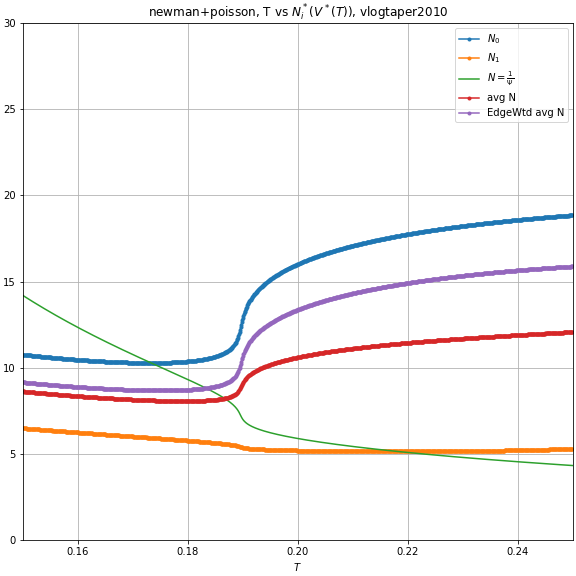
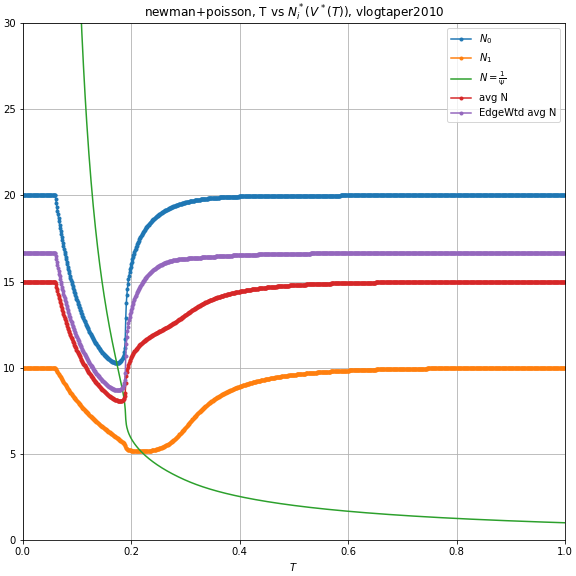
More graphs and fixed graphs

diff --git a/contagion/graph_newman_poisson.py b/contagion/graph_newman_poisson.py
@@ -80,13 +80,18 @@ def plot_Ψiteration_differencetest(Ai_list,utilfunc_list):
 
 #%% Plot T vs equilibrium V, along with prevalences?
 
-def plot_equilibriumvsT(Ai_list,utilfunc_list,speciallabel):
+def plot_equilibriumvsT(Ai_list,utilfunc_list,speciallabel, zoomparams=None):
     '''Iterate through T, find an equilibrium edge risk at each point. 
     Plug that in to get choices and prevalences. Plot  two graphs.'''
-    #unit_grid = np.arange(0.15,0.155,0.00001)
-    unit_grid = np.arange(0.15,0.25,0.0001)
+    #zoomparems are of the form (minx,maxx,step)
+    local_grid = unit_grid
+    if zoomparams:
+        local_grid = np.arange(zoomparams[0],zoomparams[1],zoomparams[2])
+        xlimits=[zoomparams[0],zoomparams[1]]
+    else:
+        xlimits=[0,1]
     #Calculate the gridpoints: eqlb edge risk, eqlb connections, eqlb r_infty
-    equilV_grid = [nnp.approx_equilibriumV(T, Ai_list, utilfunc_list) for T in unit_grid]
+    equilV_grid = [nnp.approx_equilibriumV(T, Ai_list, utilfunc_list) for T in local_grid]
     equilΨ_grid = [1-V for V in equilV_grid]
     Ni_grids = [[nnp.approx_bestNi(V,utilfunc) for V in equilV_grid] for utilfunc in utilfunc_list]
     #averages 
@@ -100,15 +105,15 @@ def plot_equilibriumvsT(Ai_list,utilfunc_list,speciallabel):
     # First plot a graph of risk and prevalence.
     fig,ax = plt.subplots(figsize=(8,8),constrained_layout=True)
     
-    ax.plot(unit_grid,unit_grid,c='black',linestyle='dotted')#45degree line
+    ax.plot(local_grid,local_grid,c='black',linestyle='dotted')#45degree line
     for i,Ri_grid in enumerate(Rinfty_grids):
-        ax.plot(unit_grid, Ri_grid, label=r'$p(N_'+str(i)+r')$', marker='.')
-    ax.plot(unit_grid, equilΨ_grid, label=r'$Ψ_{eq}$', marker='.')
-    ax.plot(unit_grid, weightedR_grid, label=r'$R_{\infty}$', marker='.')
-    ax.plot(unit_grid, edgesharetype0_grid, label='$edgshr_{0}$', marker='.')
+        ax.plot(local_grid, Ri_grid, label=r'$p(N_'+str(i)+r')$', marker='.')
+    ax.plot(local_grid, equilΨ_grid, label=r'$Ψ_{eq}$', marker='.')
+    ax.plot(local_grid, weightedR_grid, label=r'$R_{\infty}$', marker='.')
+    ax.plot(local_grid, edgesharetype0_grid, label='$edgshr_{0}$', marker='.')
     
     ax.set_ylim([0,1])
-    ax.set_xlim([0,1])
+    ax.set_xlim(xlimits)
     ax.legend(loc='lower right')
     ax.grid()
     labelSubplot(ax, 'newman+poisson, T vs equilibrium prevalence, '+speciallabel, '$T$', '')
@@ -118,32 +123,35 @@ def plot_equilibriumvsT(Ai_list,utilfunc_list,speciallabel):
     #Then plot a graph of choices.
     fig,ax = plt.subplots(figsize=(8,8),constrained_layout=True)
     
-    
     for i,Ni_grid in enumerate(Ni_grids):
-        ax.plot(unit_grid, Ni_grid, label='$N_'+str(i)+'$', marker='.')    
-    plt.plot(unit_grid,[1/Ψ for Ψ in equilΨ_grid], label=r'$N=\frac{1}{\Psi}$')
-    ax.plot(unit_grid, weightedN_grid, label='avg N', marker='.')   
-    ax.plot(unit_grid, edgeweightedN_grid, label='EdgeWtd avg N', marker='.')   
-    #plt.plot([0.153,0.153],[0,30])
+        ax.plot(local_grid, Ni_grid, label='$N_'+str(i)+'$', marker='.')    
+    plt.plot(local_grid,[1/Ψ for Ψ in equilΨ_grid], label=r'$N=\frac{1}{\Psi}$')
+    ax.plot(local_grid, weightedN_grid, label='avg N', marker='.')   
+    ax.plot(local_grid, edgeweightedN_grid, label='EdgeWtd avg N', marker='.')   
     
     ax.set_ylim([0,30])
-    ax.set_xlim([0,1])
+    ax.set_xlim(xlimits)
     ax.legend(loc='upper right')
     ax.grid()
     labelSubplot(ax, r'newman+poisson, T vs $N_i^*(V^*(T))$, '+speciallabel, '$T$', '')
     plt.savefig('graph_newman_poisson_equilibriumchoices_'+speciallabel+'.png')
     
 
+#u_Nlogtaper_20 = lambda N: nnp.u_Nlogtaper(N, 20, 0.5)
+#plot_equilibriumvsT([0.5,0.5],[u_Nlogtaper_20,nnp.u_Nlogtaper_L],'vlogtaper2010')    
+#plot_equilibriumvsT([0.5,0.5],[u_Nlogtaper_20,nnp.u_Nlogtaper_L],'vlogtaper2010zoom',(0.16,0.21,0.0001))  
 
-plot_equilibriumvsT([0.5,0.5],[nnp.u_Nlogtaper_H,nnp.u_Nlogtaper_L],'vlogtaper2010')    
-#plot_equilibriumvsT([0.5,0.5],[nnp.u_Nlogtaper_H,nnp.u_Nlogtaper_L],'vlogtaper2010zoom')  
+plot_equilibriumvsT([0.5,0.5],[nnp.u_Nlogtaper_H,nnp.u_Nlogtaper_L],'vlogtaper2510')    
+plot_equilibriumvsT([0.5,0.5],[nnp.u_Nlogtaper_H,nnp.u_Nlogtaper_L],'vlogtaper2510zoom',(0.14,0.16,0.0001))    
 
-#plot_equilibriumvsT([0.5,0.5],[nnp.u_Nlogtaper_H,nnp.u_Nlogtaper_L],'vlogtaper2510')    
-#plot_equilibriumvsT([0.5,0.5],[nnp.u_Nlogtaper_H,nnp.u_Nlogtaper_L],'vlogtaper2510zoom')    
-
-
-
+#u_Nlogtaper_30 = lambda N: nnp.u_Nlogtaper(N, 30, 0.5)
+#plot_equilibriumvsT([0.5,0.5],[u_Nlogtaper_30,nnp.u_Nlogtaper_L],'vlogtaper3010')    
+#plot_equilibriumvsT([0.5,0.5],[u_Nlogtaper_30,nnp.u_Nlogtaper_L],'vlogtaper3010zoom',(0.125,0.13,0.00001)) 
 
 
+
+#plot_equilibriumvsT([0.1,0.9],[nnp.u_Nlogtaper_H,nnp.u_Nlogtaper_L],'vlogtaper2510_H10pc') 
+#plot_equilibriumvsT([0.9,0.1],[nnp.u_Nlogtaper_H,nnp.u_Nlogtaper_L],'vlogtaper2510_H90pc') 
+#plot_equilibriumvsT([0.05,0.95],[nnp.u_Nlogtaper_H,nnp.u_Nlogtaper_L],'vlogtaper2510_H05pc')    
 
 

diff --git a/contagion/numsolve_newman_poisson.py b/contagion/numsolve_newman_poisson.py
@@ -126,7 +126,7 @@ def u_Nlogtaper(N,Nsansrisk,weight):
     #vsansrisk is a parameter representing the optimum choice when rtauW=0
     return weight*(np.log(N) - N**2 / (2*Nsansrisk**2))
 
-φH = 20
+φH = 25
 φL = 10
 
 def u_Nlogtaper_H(N):

diff --git a/contagion/notes_newman_poisson.md b/contagion/notes_newman_poisson.md
@@ -135,7 +135,7 @@ For multiple equilibria when $$N_i^*$$ are continuous, it needs to be that
     - At the margins, as $$\Psi$$ increases, $$\Psi'(N(\Psi)) > 1$$. That is, the behavior of people needs to be increasingly risky, so much so that it increases the equilibrium risk like a total bunch, man. Very high negative elasticity.
 
 
-### Example 1.5
+### Example 1.1
 
 Same as previous, but now type $H$ has baseline desire for 20 connections instead of 25.
 
@@ -148,14 +148,47 @@ Same as previous, but now type $H$ has baseline desire for 20 connections instea
 <td><img src="graph_newman_poisson_equilibriumchoices_vlogtaper2010zoom.png"></td>
 </tr></table>
 
+### Example 1.2
+
+Same as previous, but now type $H$ has baseline desire for 30 connections instead of 25.
+
+
+<table><tr>
+<td><img src="graph_newman_poisson_equilibriumprev_vlogtaper3010.png"></td>
+<td><img src="graph_newman_poisson_equilibriumchoices_vlogtaper3010.png"></td>
+</tr><tr>
+<td><img src="graph_newman_poisson_equilibriumprev_vlogtaper3010zoom.png"></td>
+<td><img src="graph_newman_poisson_equilibriumchoices_vlogtaper3010zoom.png"></td>
+</tr></table>
+
+*Wait, is there actually a discontinuity in this one???*
+
+
+### Example 1.3
+
+Same as example 1, but varying the percent of the population which is of type H.
+
+Left: 90% is type H; Mid: 10%; right: 05%.
+
+<table><tr>
+<td><img src="graph_newman_poisson_equilibriumprev_vlogtaper2510_H90pc.png"></td>
+<td><img src="graph_newman_poisson_equilibriumprev_vlogtaper2510_H10pc.png"></td>
+<td><img src="graph_newman_poisson_equilibriumprev_vlogtaper2510_H05pc.png"></td>
+</tr><tr>
+<td><img src="graph_newman_poisson_equilibriumchoices_vlogtaper2510_H90pc.png"></td>
+<td><img src="graph_newman_poisson_equilibriumchoices_vlogtaper2510_H10pc.png"></td>
+<td><img src="graph_newman_poisson_equilibriumchoices_vlogtaper2510_H05pc.png"></td>
+</tr></table>
+
 
 
 # TODO Tomorrow:
 
 - [x] Make the scripts and plots for this setup.
-- [ ] Make a plot for T vs $$\Psi_{eq}$$ for this util fucntion.
+- [x] Make a plot for T vs $$\Psi_{eq}$$ for this util fucntion.
 - [ ] $$R_0$$ for this setup?
 - [ ] Double check that I calculated $$T_c$$ correctly.
+- [ ] Check if there is a discontinuitity in Ex1.2
 - [ ] Plot marginal risk for this and others.
 - [ ] Try to find a utility function with a nice analytic description for the relationship between some parameter and $$N_i^*(\Psi)$$, such that I can choose a distribution for this parameter that induces a gamma distribution on $$N_i^*$$ 
 <!--Could maybe induce a distribution on offspring via a distribution on \delta_i. Different types of people are -->
